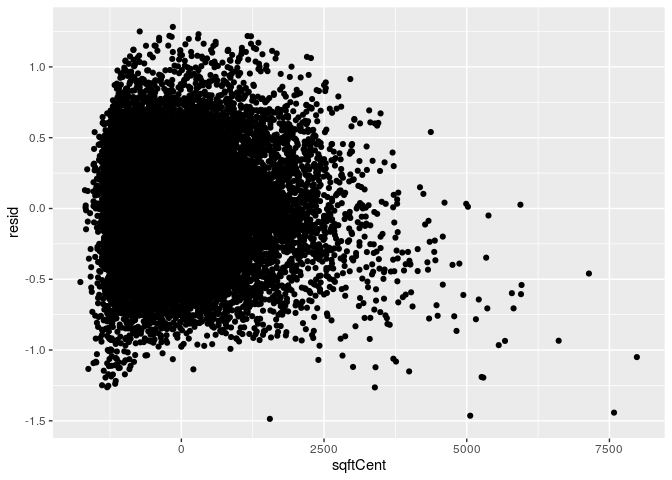
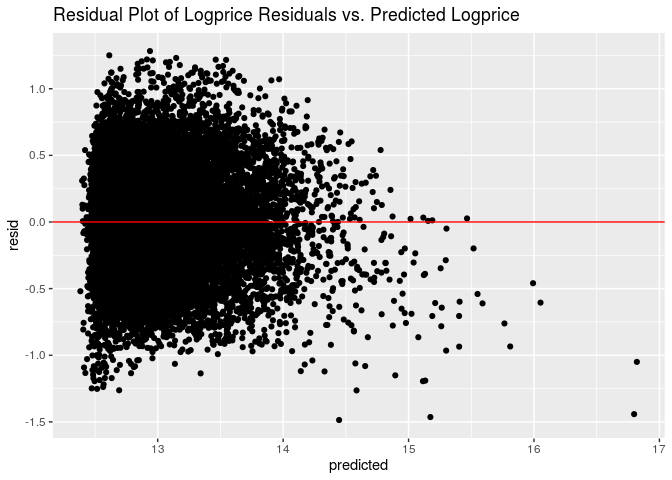
Started question 8

diff --git a/hw-03-mlr.md b/hw-03-mlr.md
@@ -16,17 +16,18 @@ houses <- read_csv("data/KingCountyHouses.csv")
 
 ### Question 1
 
-speed-hat = 52.387 + 0.020 \* year - 0.0032 \* starters - 1.070 \* good
--2.1834 \* slow + 0.012 \* (year x good) + 0.012 \* (year x slow)
+For fast track conditions:
+
+speed-hat = 52.387 + 0.020 \* year - 0.003 \* starters
 
 ### Question 2
 
 For slow track conditions:
 
-speed-hat = 52.387 + 0.020 \* year - 0.0032 \* starters - 1.070 \* 0 -
+speed-hat = 52.387 + 0.020 \* year - 0.003 \* starters - 1.070 \* 0 -
 2.1834 \* 1 + 0.012 \* (year x 0) + 0.012 \* (year x 1)
 
-\= 50.2036 + 0.032 \* year - 0.0032 \* starters
+\= 50.2036 + 0.032 \* year - 0.003 \* starters
 
 ### Question 3
 
@@ -98,32 +99,36 @@ houses <- houses %>%
          logprice = log(price))
 ```
 
+#### Regression Model
+
 Fit a regression model between logprice and predictor
 variables:
 
 ``` r
 logprice_model <- lm(logprice ~ floorsCat + sqftCent + bedroomsCent + bathroomsCent + waterfront, data = houses)
-kable(tidy(logprice_model, conf.int = TRUE, level = 0.95),digits=3)
+kable(tidy(logprice_model, conf.int = TRUE, level = 0.95),digits=5)
 ```
 
-| term          | estimate | std.error | statistic | p.value | conf.low | conf.high |
-| :------------ | -------: | --------: | --------: | ------: | -------: | --------: |
-| (Intercept)   |   13.015 |     0.004 |  3385.246 |   0.000 |   13.007 |    13.022 |
-| floorsCat1.5  |    0.184 |     0.009 |    19.905 |   0.000 |    0.166 |     0.202 |
-| floorsCat2    |  \-0.002 |     0.006 |   \-0.299 |   0.765 |  \-0.015 |     0.011 |
-| floorsCat2.5  |    0.206 |     0.031 |     6.653 |   0.000 |    0.146 |     0.267 |
-| floorsCat3    |    0.214 |     0.016 |    13.515 |   0.000 |    0.183 |     0.245 |
-| floorsCat3.5  |    0.273 |     0.138 |     1.976 |   0.048 |    0.002 |     0.543 |
-| sqftCent      |    0.000 |     0.000 |    86.944 |   0.000 |    0.000 |     0.000 |
-| bedroomsCent  |  \-0.062 |     0.004 |  \-16.115 |   0.000 |  \-0.069 |   \-0.054 |
-| bathroomsCent |    0.061 |     0.006 |    10.742 |   0.000 |    0.050 |     0.072 |
-| waterfront    |    0.567 |     0.029 |    19.313 |   0.000 |    0.509 |     0.624 |
+| term          |  estimate | std.error |  statistic | p.value |  conf.low | conf.high |
+| :------------ | --------: | --------: | ---------: | ------: | --------: | --------: |
+| (Intercept)   |  13.01451 |   0.00384 | 3385.24619 | 0.00000 |  13.00697 |  13.02204 |
+| floorsCat1.5  |   0.18368 |   0.00923 |   19.90500 | 0.00000 |   0.16559 |   0.20176 |
+| floorsCat2    | \-0.00192 |   0.00644 |  \-0.29872 | 0.76515 | \-0.01454 |   0.01070 |
+| floorsCat2.5  |   0.20645 |   0.03103 |    6.65257 | 0.00000 |   0.14562 |   0.26727 |
+| floorsCat3    |   0.21371 |   0.01581 |   13.51549 | 0.00000 |   0.18272 |   0.24470 |
+| floorsCat3.5  |   0.27272 |   0.13805 |    1.97552 | 0.04822 |   0.00213 |   0.54331 |
+| sqftCent      |   0.00040 |   0.00000 |   86.94443 | 0.00000 |   0.00039 |   0.00041 |
+| bedroomsCent  | \-0.06172 |   0.00383 | \-16.11498 | 0.00000 | \-0.06923 | \-0.05421 |
+| bathroomsCent |   0.06067 |   0.00565 |   10.74194 | 0.00000 |   0.04960 |   0.07174 |
+| waterfront    |   0.56684 |   0.02935 |   19.31321 | 0.00000 |   0.50931 |   0.62437 |
 
 logprice-hat = 13.015 + 0.184 \* floorsCat1.5 - 0.002 \* floorsCat2 +
 0.206 \* floorsCat2.5 + 0.214 \* floorsCat3 + 0.273 \* floorsCat3.5 +
-0.000 \* sqftCent - 0.062 \* bedroomsCent + 0.061 \* bathroomsCent +
+0.0004 \* sqftCent - 0.062 \* bedroomsCent + 0.061 \* bathroomsCent +
 0.567 \*
 waterfront
+
+#### Exploratory Data Analysis
 
 ``` r
 ggplot(data = houses, mapping = aes(x = price)) + geom_histogram() + labs(title = "Distribution of Price for Houses Sold in King County, Washington")
@@ -133,7 +138,7 @@ ggplot(data = houses, mapping = aes(x = price)) + geom_histogram() + labs(title 
 
 The distribution of house prices is unimodal and strongly right skewed
 due to high outliers of houses that are extremely expensive. Thus, we
-visualize the distribution of the log transformed house
+visualize the distribution using the log transformed house
 prices.
 
 ``` r
@@ -146,32 +151,133 @@ The distribution of logprice is unimodal and relatively normal. We use
 the log-transformed version of price because it gives us a more normal
 distribution that is more spread out and easier to analyze, as opposed
 to the clustered and extremely right skewed distribution of price, due
-to the high outliers.
+to the high outliers from very expensive houses.
 
-Created a scatterplot to visualize the relationship between logprice and
-square
-footage:
+#### Discussion
 
-``` r
-ggplot(data = houses, mapping = aes(x = sqftCent, y = logprice)) + geom_point() + labs(title = "Relationship between Logprice and Square Footage")
-```
+Relationship between House Price and Square Footage:
 
-![](hw-03-mlr_files/figure-gfm/price-sqft-1.png)<!-- -->
+For every 1 square foot increase in a house’s interior square footage,
+we expect the median price to be multiplied by a factor of $1.0004. We
+are 95% confident that for a 1 square foot increase in a house’s
+interior square footage, we can expect the median price to be multiplied
+by a factor of 1.00039 to 1.00041.
 
-There is a strong positive correlation between a house’s logprice and
-square footage.
+Relationship between House Price and Number of Floors:
 
-#### MAYBE USE
+A house with 1.5 floors is expected to have a median price 1.202 times
+the price of a 1-floor house. A house with 2 floors is expected to have
+a median price 0.998 times the price of a 1-floor house. A house with
+2.5 floors is expected to have a median price 1.229 times the price of a
+1-floor house. A house with 3 floors is expected to have a median price
+1.238 times the price of a 1-floor house. A house with 3.5 floors is
+expected to have a median price 1.314 times the price of a 1-floor
+house.
+
+The null hypothesis states that there is no statistically significant
+difference in house price between houses with 1 floor and 1.5, 2, 2.5,
+3, and 3.5 floors. The alternative hypothesis states that there is a
+statistically significant difference in house prices between houses with
+different number of floors.
+
+The differences in house price are statistically significant for all
+floors except between houses with 1 floor and 2 floors. This is because
+the p-value for 2 floor houses is 0.765, which is greater than the alpha
+level of 0.05, thus we fail to reject the null hypothesis, showing there
+is no statisically significant difference in house price betwen houses
+with 1 and 2 floors.
+
+#### Assumptions
 
 ``` r
 houses <- houses %>%
-  mutate(resid = residuals(logprice_model))
+  mutate(predicted = predict.lm(logprice_model), resid = residuals(logprice_model))
 ```
 
 ``` r
-ggplot(data = houses, mapping = aes(x = sqftCent, y = resid)) + geom_point()
+ggplot(data = houses, mapping = aes(x = resid)) + geom_histogram() + labs(title = "Distribution of Residuals")
+```
+
+![](hw-03-mlr_files/figure-gfm/resid-hist-1.png)<!-- -->
+
+``` r
+ggplot(data = houses, mapping = aes(x = predicted, y = resid)) + geom_point() + geom_hline(yintercept = 0, color ="red") + labs(title = "Residual Plot of Logprice Residuals vs. Predicted Logprice")
 ```
 
 ![](hw-03-mlr_files/figure-gfm/resid-plot-1.png)<!-- -->
+
+``` r
+ggplot(data = houses, mapping = aes(x = floorsCat, y = resid)) + geom_point() + geom_hline(yintercept = 0, color ="red") + labs(title = "Residual Plot of Logprice Residuals vs. Number of Floors")
+```
+
+![](hw-03-mlr_files/figure-gfm/resid-plot-2.png)<!-- -->
+
+``` r
+ggplot(data = houses, mapping = aes(x = sqftCent, y = resid)) + geom_point() + geom_hline(yintercept = 0, color ="red") + labs(title = "Residual Plot of Logprice Residuals vs. Interior Square Footage")
+```
+
+![](hw-03-mlr_files/figure-gfm/resid-plot-3.png)<!-- -->
+
+``` r
+ggplot(data = houses, mapping = aes(x = bedroomsCent, y = resid)) + geom_point() + geom_hline(yintercept = 0, color ="red") + labs(title = "Residual Plot of Logprice Residuals vs. Number of Bedrooms")
+```
+
+![](hw-03-mlr_files/figure-gfm/resid-plot-4.png)<!-- -->
+
+``` r
+ggplot(data = houses, mapping = aes(x = bathroomsCent, y = resid)) + geom_point() + geom_hline(yintercept = 0, color ="red") + labs(title = "Residual Plot of Logprice Residuals vs. Number of Bathrooms")
+```
+
+![](hw-03-mlr_files/figure-gfm/resid-plot-5.png)<!-- -->
+
+``` r
+ggplot(data = houses, mapping = aes(x = waterfront, y = resid)) + geom_point() + geom_hline(yintercept = 0, color ="red") + labs(title = "Residual Plot of Logprice Residuals vs. Waterfront")
+```
+
+![](hw-03-mlr_files/figure-gfm/resid-plot-6.png)<!-- -->
+
+``` r
+ggplot(data = houses, mapping = aes(sample = resid)) + 
+  stat_qq() + 
+  stat_qq_line() +
+  labs(title = "Normal QQ Plot of Residuals")
+```
+
+![](hw-03-mlr_files/figure-gfm/qqplot-1.png)<!-- -->
+
+Linearity
+
+Normality is satisfied because the distribution of residuals for the
+logprice model is normal and the normal qq plot of residuals follows the
+line of best fit.
+
+Constant Variance is not satsified
+
+Independence is not satisfied because a house’s price is not completely
+indpendent of other houses’ prices. For example, if the economy is not
+doing well, house prices might decrease in general, or houses might be
+priced lower to compete in the
+market.
+
+#### Interaction
+
+``` r
+logprice_model <- lm(logprice ~ floorsCat + sqftCent + bedroomsCent + bathroomsCent + waterfront + waterfront * bedroomsCent, data = houses)
+kable(tidy(logprice_model, conf.int = TRUE, level = 0.95),digits=5)
+```
+
+| term                    |  estimate | std.error |  statistic | p.value |  conf.low | conf.high |
+| :---------------------- | --------: | --------: | ---------: | ------: | --------: | --------: |
+| (Intercept)             |  13.01447 |   0.00384 | 3384.88701 | 0.00000 |  13.00693 |  13.02201 |
+| floorsCat1.5            |   0.18373 |   0.00923 |   19.91015 | 0.00000 |   0.16564 |   0.20182 |
+| floorsCat2              | \-0.00184 |   0.00644 |  \-0.28568 | 0.77513 | \-0.01446 |   0.01078 |
+| floorsCat2.5            |   0.20670 |   0.03104 |    6.66015 | 0.00000 |   0.14587 |   0.26753 |
+| floorsCat3              |   0.21361 |   0.01581 |   13.50832 | 0.00000 |   0.18261 |   0.24460 |
+| floorsCat3.5            |   0.27256 |   0.13805 |    1.97428 | 0.04836 |   0.00196 |   0.54315 |
+| sqftCent                |   0.00040 |   0.00000 |   86.87878 | 0.00000 |   0.00039 |   0.00041 |
+| bedroomsCent            | \-0.06189 |   0.00384 | \-16.12661 | 0.00000 | \-0.06941 | \-0.05437 |
+| bathroomsCent           |   0.06066 |   0.00565 |   10.74138 | 0.00000 |   0.04959 |   0.07173 |
+| waterfront              |   0.56878 |   0.02948 |   19.29264 | 0.00000 |   0.51099 |   0.62656 |
+| bedroomsCent:waterfront |   0.02033 |   0.02918 |    0.69677 | 0.48595 | \-0.03686 |   0.07752 |
 
 ### Overall (do not delete\!)
